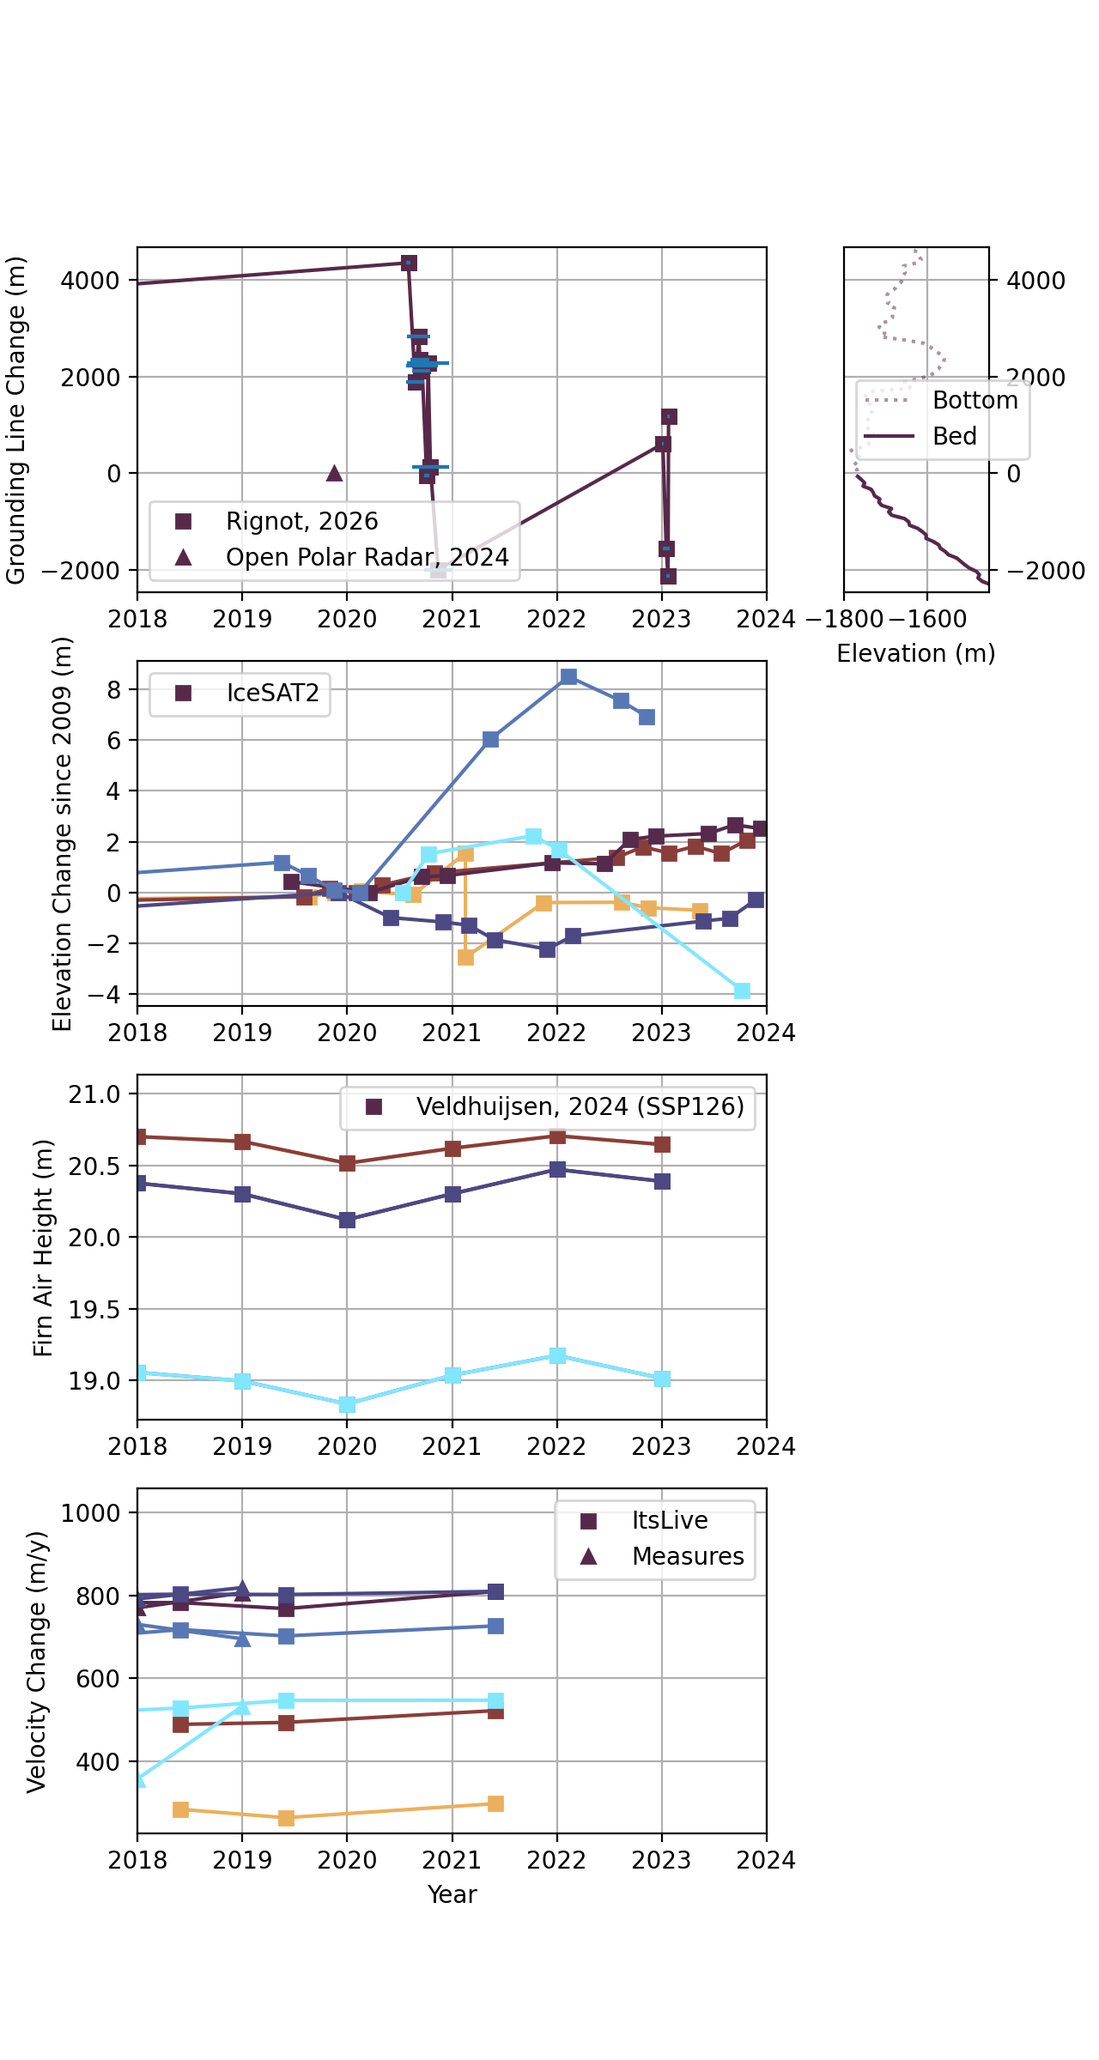
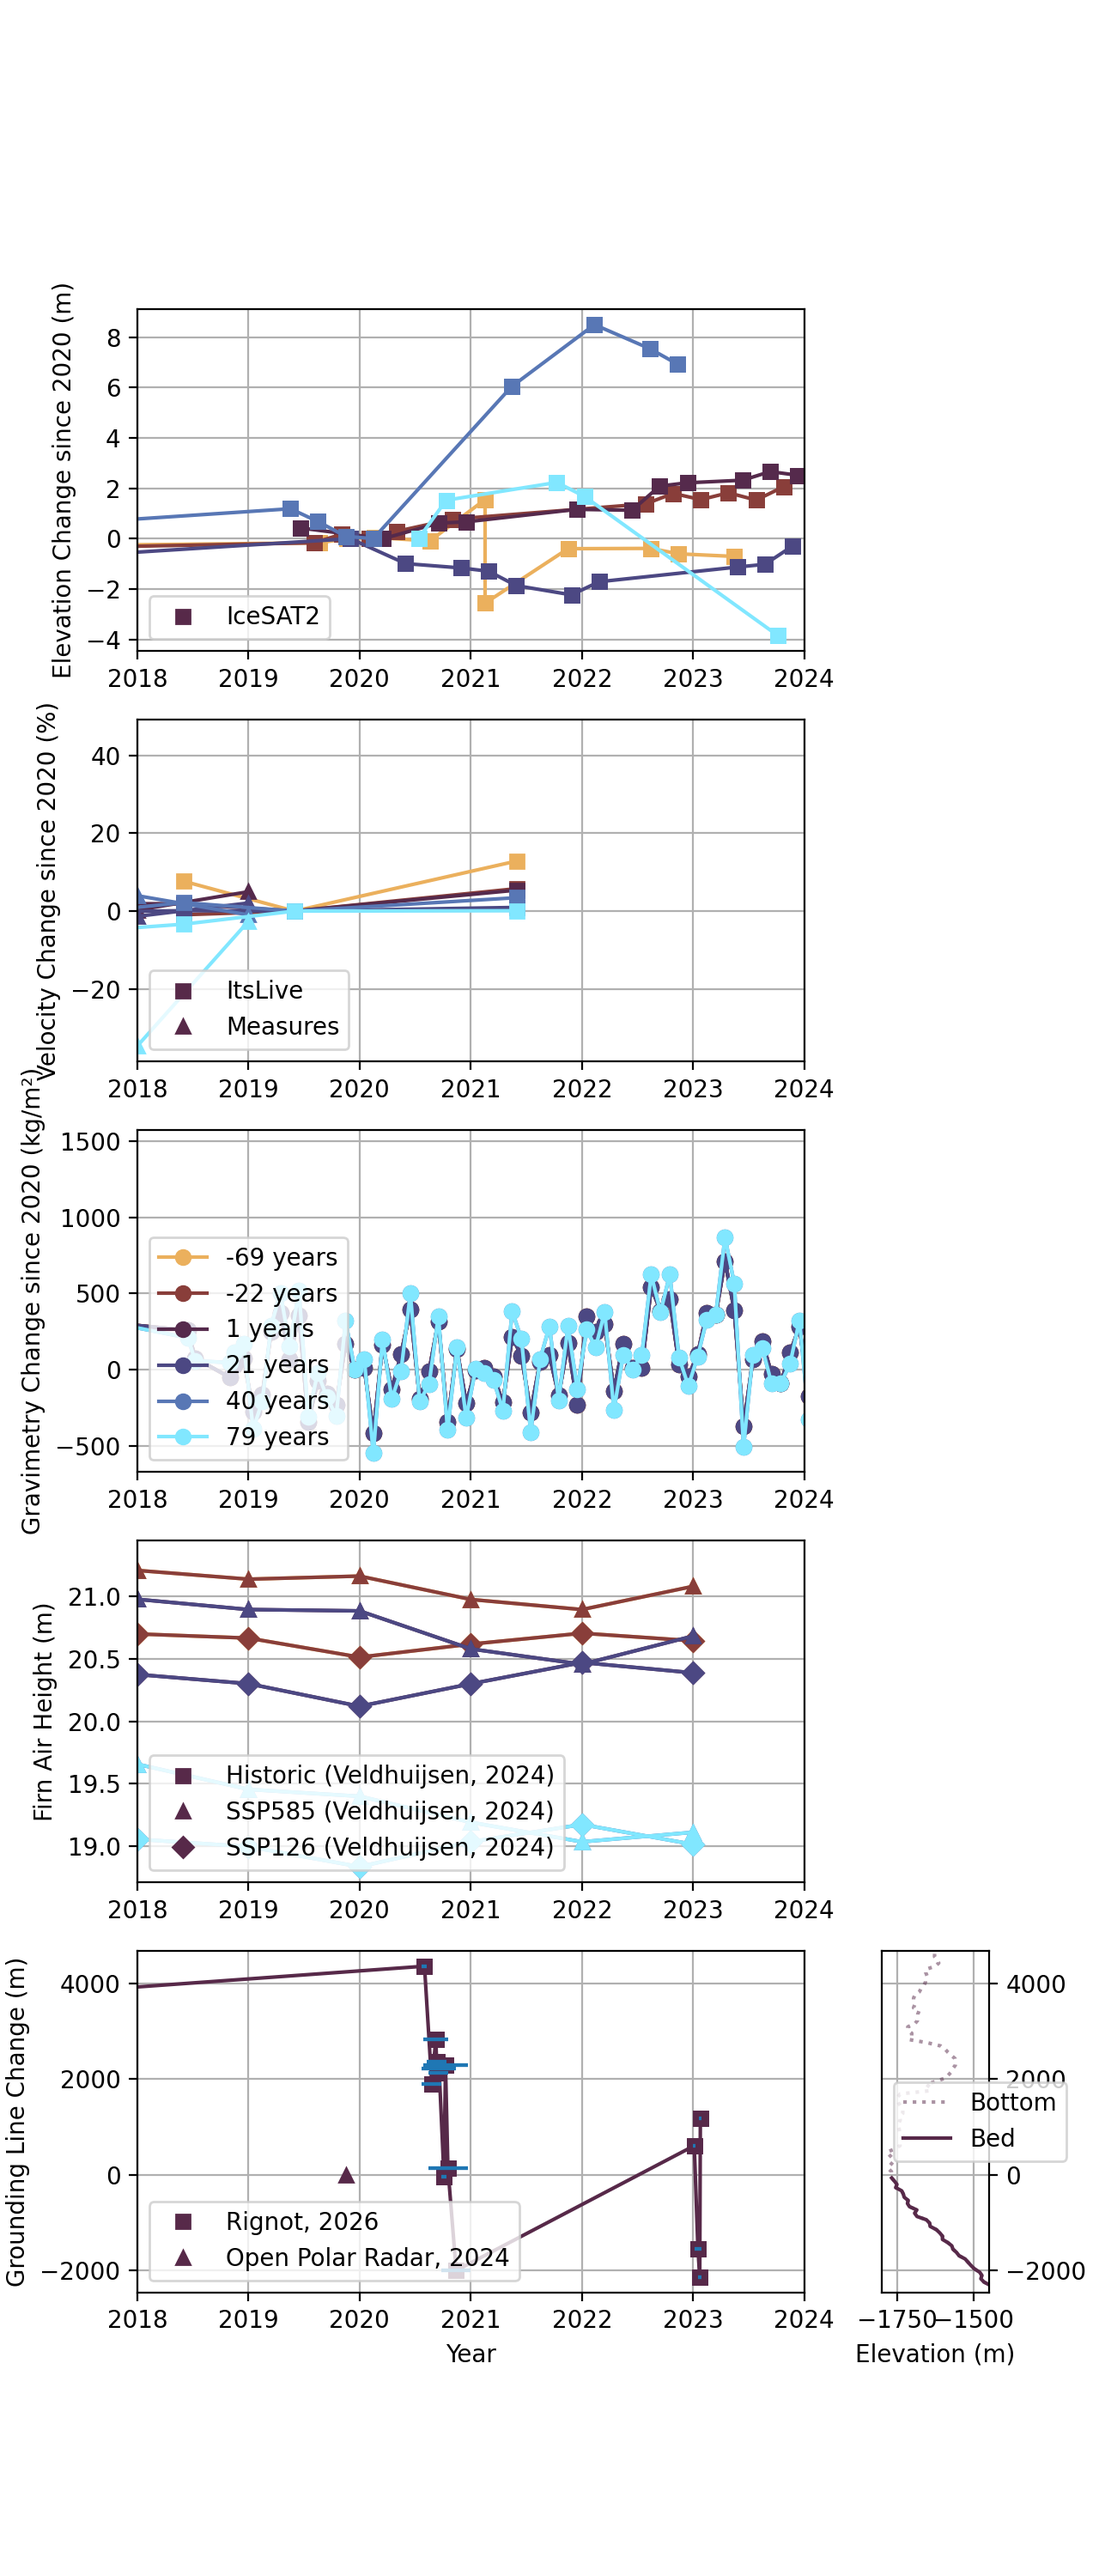
long and short term plots with all panels differenced to 2020

diff --git a/src/pointwise.py b/src/pointwise.py
@@ -16,7 +16,7 @@ from photutils.aperture import CircularAperture
 from plotting import Plotting
 
 class Pointwize():
-    def __init__(self, flags, xlim, ylim, points, data, pt_range = [-2, 4], point_spacing=17000, change=True, streamwise=True):
+    def __init__(self, flags, xlim, ylim, points, data, pt_range = [-2, 4], point_spacing=17000, change=True, streamwise=True, time_diff_year = 2020):
         self.flags = flags
         self.xlim = xlim
         self.ylim = ylim
@@ -25,6 +25,7 @@ class Pointwize():
         self.point_label = str(int(points[0])) + '_' + str(int(points[1]))
         self.data = data
         self.change = change
+        self.time_diff_year = time_diff_year
         self.pt_range = pt_range
         self.labels = []
 
@@ -127,7 +128,7 @@ class Pointwize():
 
 
 
-    def gpd_geom_match(self, out, index, column_of_interest = 'elevation', add_result=False, date_col='date'):
+    def gpd_geom_match(self, out, index, column_of_interest = 'elevation', add_result=True, date_col='date'):
 
         '''rename_for_datasource = {'elev': {'_xerr': '_xerr'},
                                  'gl': {}}
@@ -213,7 +214,7 @@ class Pointwize():
             self.results[self.get_label(index)] = df
 
     
-    def geotiff_geom_match(self, out, index, column_of_interest = 'band_data', add_result=False):
+    def geotiff_geom_match(self, out, index, column_of_interest = 'band_data', add_result=True):
         p = self.points[index]
 
         df = out.sel(x=p[1], y=p[0], method='nearest')
@@ -236,43 +237,44 @@ class Pointwize():
                 new_dates = df['time'].values
 
         df[time_dim] = new_dates
+
+        values = df[column_of_interest]
         
         if self.change:
-            print(df[column_of_interest])
-            self.gpd_time_difference(new_dates, df[column_of_interest].values)
+            new_dates, values = self.gpd_time_difference(new_dates, df[column_of_interest])
 
         if 'sources' in df.variables:
             df = pd.DataFrame({'time': new_dates, 'sources': df['sources'],
-                               self.data: df[column_of_interest]})
+                               self.data: values})
 
         else:
             df = pd.DataFrame({'time': new_dates,
-                                self.data: df[column_of_interest]})
+                                self.data: values})
             
 
         
         if add_result:
-            if len(self.results[self.get_label(index)]) == 0:
+            if self.get_label(index) not in self.results.keys() or len(self.results[self.get_label(index)]) == 0:
                 self.results[self.get_label(index)] = df
-            self.results[self.get_label(index)] = pd.concat([self.results[self.get_label(index)], df], axis=0, ignore_index=True)
+            else:
+                self.results[self.get_label(index)] = pd.concat([self.results[self.get_label(index)], df], axis=0, ignore_index=True)
         else:
             self.results[self.get_label(index)] = df
 
 
-    def gpd_time_difference(self, time, data, year=2020):
+    def gpd_time_difference(self, time, data):
         time = np.array(time)
         data = np.array(data)
-        print(time)
-        if year == None:
+        if self.time_diff_year == None:
             ref_time = min(time[data != np.nan])
-        elif type(year) == int:
-            print(sorted(time, key=lambda x: abs(x - datetime.datetime(year, 1, 1))))
-            ref_time = sorted(time, key=lambda x: abs(x - datetime.datetime(year, 1, 1)))[0]
+        elif type(self.time_diff_year) == int:
+            ref_time = sorted(time[data != np.nan], key=lambda x: abs(x - datetime.datetime(self.time_diff_year, 1, 1)))[0]
 
-        print(ref_time)
-
-        data = data - data[time == ref_time]
-        print(data)
+        
+        if self.change == '%':
+            data = ((data - data[time == ref_time]) / abs(data[time == ref_time])) * 100
+        else:
+            data = data - data[time == ref_time]
 
         return time, data
 
@@ -396,7 +398,7 @@ class Pointwize():
             self.results[self.get_label(p)] = self.results[self.get_label(p)].sort_values('time')
 
 
-    def get_data(self, rema=False):
+    def get_data(self, rema=False, firn_source=-1):
 
         type_info = {
             'vel': 'band_data',
@@ -417,7 +419,16 @@ class Pointwize():
             self.get_gl_set(GL_GPKG_radar, ['date'], 'Open Polar Radar, 2024')
             return 
 
-        filemanager = fms[self.data](self.xlim, self.ylim, self.flags, self.data)
+        if self.data == 'firn' and firn_source == -1:
+            self.get_data(firn_source=0)
+            self.get_data(firn_source=1)
+            self.get_data(firn_source=2)
+            return
+        elif self.data == 'firn':
+            filemanager = fms[self.data](self.xlim, self.ylim, self.flags, self.data, source=firn_source)
+        else:
+            filemanager = fms[self.data](self.xlim, self.ylim, self.flags, self.data)
+
         print('getting output')
         out = filemanager.get_ouput_files()
         print('comparing points')
@@ -431,6 +442,7 @@ class Pointwize():
                 return
             
             self.results[self.get_label(p)] = self.results[self.get_label(p)].sort_values('time')
+
         if rema and self.data == 'elev':
             return self.get_data_rema()
 

diff --git a/src/file_manager.py b/src/file_manager.py
@@ -100,6 +100,7 @@ class FileManager:
                     
             all_files.append(cur_df)
 
+
         if len(all_files) == 0:
             return
 
@@ -116,6 +117,7 @@ class FileManager:
             
             self.file = xr.concat(all_files, dim=years, join='outer')
             self.file = self.file.rename({'concat_dim': 'year'})
+
 
         return self.file
 
@@ -861,16 +863,16 @@ class IPRManager(FileManager):
 
 class FirnAirManager(FileManager):
 
-    def __init__(self, xlims, ylims, flags, data, label='', source=2):
+    def __init__(self, xlims, ylims, flags, data, label='', source=0):
         
         ftype='csv'
         super().__init__(xlims, ylims, flags, data, ftype,label=label)
-        self.gpkg_source = "Open Polar Radar, 2024"
 
-        self.start_band_year = [1950, 2015, 2015][source]
+        self.start_band_year = [1950, 2015, 2015]
 
-        self.source_firn_file = [HISTORIC_FIRN_TIF, SSP585_FIRN_TIF, SSP126_FIRN_TIF][source]
-        self.tif_source = ["Veldhuijsen, 2024 (Historic)", "Veldhuijsen, 2024 (SSP585)", "Veldhuijsen, 2024 (SSP126)"][source]
+        self.source_firn_file = [HISTORIC_FIRN_TIF, SSP585_FIRN_TIF, SSP126_FIRN_TIF]
+        self.tif_source = ["Historic (Veldhuijsen, 2024)", "SSP585 (Veldhuijsen, 2024)", "SSP126 (Veldhuijsen, 2024)"]
+        self.source = source
         
     
 
@@ -878,7 +880,7 @@ class FirnAirManager(FileManager):
         return self.build_firn_files()
 
     def get_firn_fname(self, year):
-        source_label = self.source_firn_file.split('/')[-1].split('.')[0]
+        source_label = self.source_firn_file[self.source].split('/')[-1].split('.')[0]
         return OUTPUT + 'firn_air/' + str(year) + "_" + self.label + "_" + source_label + ".tif"
 
     
@@ -896,13 +898,14 @@ class FirnAirManager(FileManager):
         String[]
             list of the generated data files
         '''
+
         for x in range(self.yearStart, self.yearEnd):
-            if x - self.start_band_year + 1 < 0:
+            if x - self.start_band_year[self.source] + 1 < 0:
                 pass
             try:
-                gdal.Translate(self.get_firn_fname(x), self.source_firn_file, bandList=[x - self.start_band_year + 1])
+                gdal.Translate(self.get_firn_fname(x), self.source_firn_file[self.source], bandList=[x - self.start_band_year[self.source] + 1])
             except RuntimeError as e:
-                print("No firn air data for " + self.tif_source + " at year " + str(x))
+                print("No firn air data for " + self.tif_source[self.source] + " at year " + str(x))
                 print(e)
                 
 
@@ -915,7 +918,6 @@ class FirnAirManager(FileManager):
         fnames = []
         found_years = []
         sources = []
-
         for year in range(self.yearStart, self.yearEnd):
             f = self.get_firn_fname(year)
             
@@ -924,12 +926,7 @@ class FirnAirManager(FileManager):
 
             fnames.append(f)
             found_years.append(datetime.datetime(year, 1, 1))
-            sources.append(self.tif_source)
-
-
-        print(fnames)
-        print(found_years)
-        print(sources)
+            sources.append(self.tif_source[self.source])
             
         return fnames, found_years, sources
     

diff --git a/src/main.py b/src/main.py
@@ -95,7 +95,7 @@ class main():
         #print(self.build_files())
         #print(self.build_files(data='elev'))
         #print(self.build_files(data='rema'))
-        #print(self.build_files(data='firn'))
+        print(self.build_files(data='firn'))
 
         #self.get_elevation_error()
 
@@ -204,35 +204,36 @@ class main():
 
     
 
-    def get_points_timeline(self, point, data = ['vel'], change = True, rema=False): #['vel', 'elev', 'grav'] #  'vel', 'elev', 'firn'
+    def get_points_timeline(self, point, data = ['elev', 'vel', 'grav', 'firn', 'gl'], change = True, rema=False): #['vel', 'elev', 'grav'] #  'vel', 'elev', 'firn'
 
         labels = {
-            'vel': "Velocity Change (m/y)",
+            'vel': "Velocity Change since 2020 (%)",
             'elev': 'Elevation Change since 2020 (m)',
-            'grav': 'Gravimetry Change since 2011 (kg/m²)',
+            'grav': 'Gravimetry Change since 2020 (kg/m²)',
             'gl': 'Grounding Line Change (m)',
             'firn': 'Firn Air Height (m)',
         }
 
 
         can_change = {
-            'vel': True,
+            'vel': '%',
             'elev': True,
-            'grav': False,
+            'grav': True,
             'gl': False,
             'firn': False,
         }
 
         if not change:
+            labels['grav'] = 'Gravimetry Change since 2011 (kg/m²)',
             labels['elev'] = 'Elevation (m)'
             labels['vel'] = 'Velocity (m/y)'
 
 
-        gl_elevation_width = 0.35
+        gl_elevation_width = 0.45
 
         width_ratios = [1, 0]
         if 'gl' in data:
-            width_ratios = [1-gl_elevation_width, gl_elevation_width - .2]
+            width_ratios = [2-gl_elevation_width, gl_elevation_width - .2]
         if len(data) == 1:
             data.append('')
 
@@ -240,7 +241,7 @@ class main():
         fig.set_figheight(3*len(data))
 
         if width_ratios[1] > 1:
-            fig.set_figwidth(4)
+            fig.set_figwidth(6)
 
 
         for i, d in enumerate(data):
@@ -269,13 +270,15 @@ class main():
 
             ax[i][0].set_xlim((datetime.datetime(self.flags.YEARSTART, 1, 1), datetime.datetime(self.flags.YEAREND, 1, 1)))
 
-            ax[i][0].legend()
+            
             if i == len(data)-1:
                 ax[i][0].set_xlabel('Year')
 
             if d == 'gl':
                 p.plot_elevation_summary(fig, ax[i][1])
+                ax[i][0].legend()
             else:
+                ax[i][0].legend(loc='lower left')
                 ax[i][1].set_visible(False)
 
 

diff --git a/src/plotting.py b/src/plotting.py
@@ -29,7 +29,6 @@ class Plotting:
 
         self.extent = extent
         self.basin_extent = basin_extent
-        print("Reading trend file...")
         if get_elevation:
             self.gdf = gpd.read_file(ELEVATION_LOCATION) #base for the elevation df size
         else:
